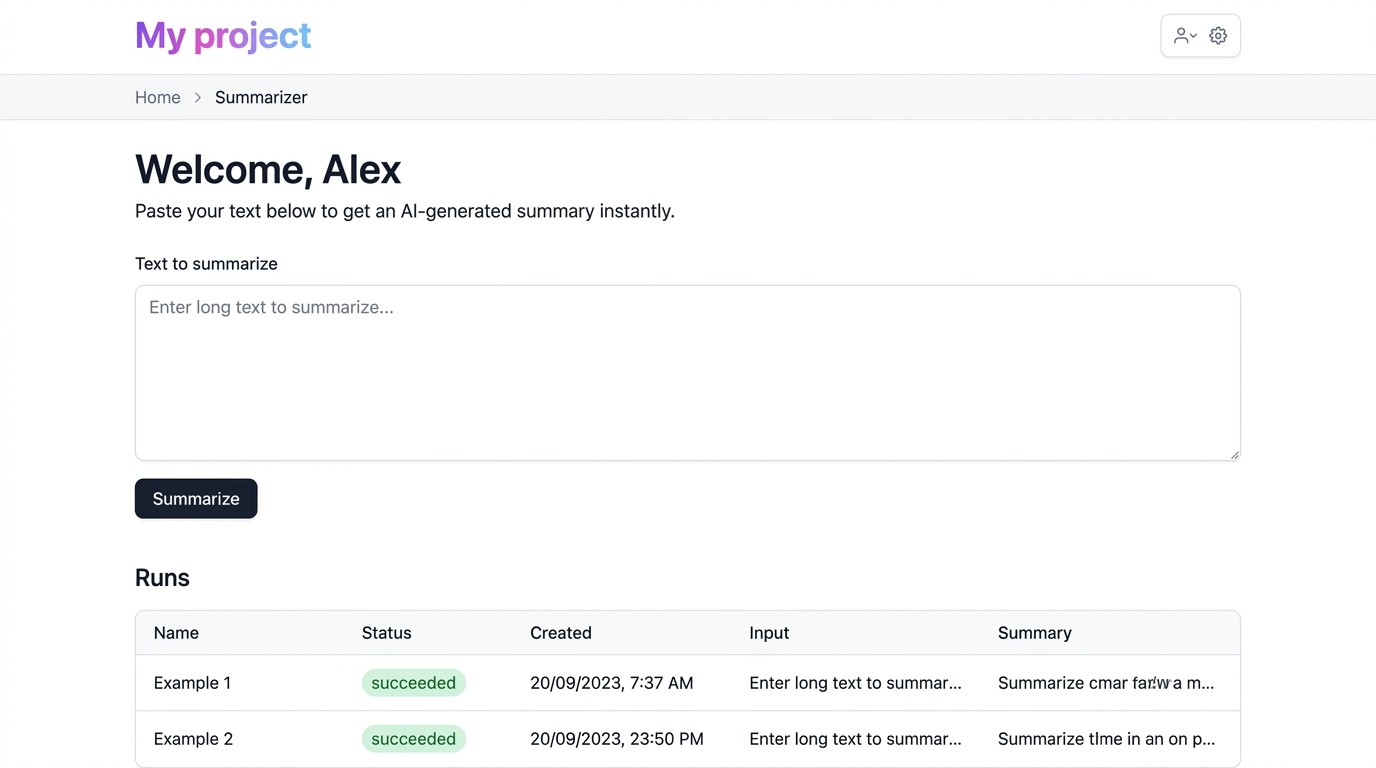
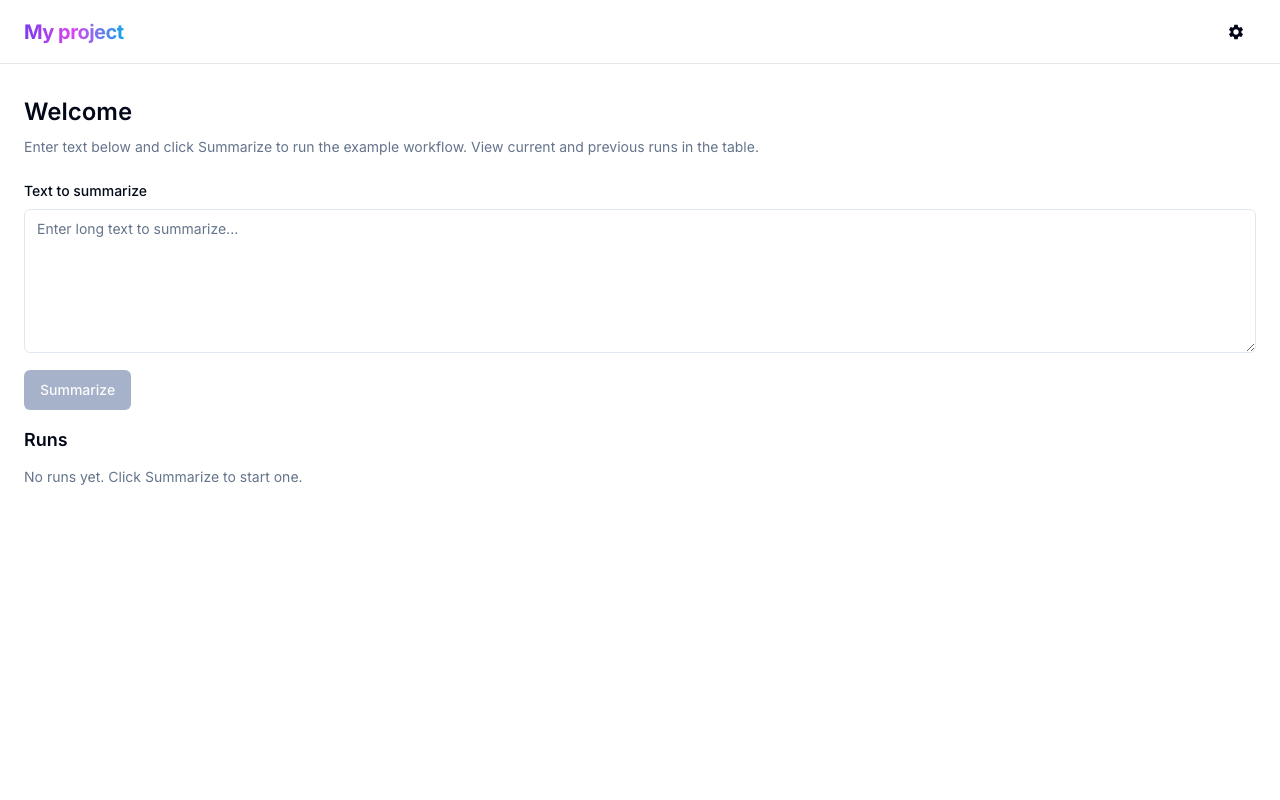
Update Docker and Justfile configurations for development and production environments; add Playwright tests for README screenshots

diff --git a/frontend/tests/readme-screenshots.spec.ts b/frontend/tests/readme-screenshots.spec.ts
@@ -1,0 +1,80 @@
+import { mkdir } from "node:fs/promises"
+import path from "node:path"
+import { fileURLToPath } from "node:url"
+import { expect, test } from "@playwright/test"
+
+const __dirname = path.dirname(fileURLToPath(import.meta.url))
+const screenshotDir = path.resolve(__dirname, "../../docs/screenshots")
+
+function apiBaseUrl(): string {
+	const fromEnv = process.env.README_API_URL?.trim()
+	if (fromEnv) return fromEnv.replace(/\/$/, "")
+	return "http://127.0.0.1:8000"
+}
+
+test.describe.configure({ mode: "serial" })
+
+test("README screenshots", async ({ page, context }) => {
+	await mkdir(screenshotDir, { recursive: true })
+
+	const email =
+		process.env.README_SCREENSHOT_EMAIL?.trim() || "admin@localhost"
+	const password = process.env.README_SCREENSHOT_PASSWORD?.trim() || "admin"
+
+	await context.clearCookies()
+	await page.goto("/login")
+	await page.evaluate(() => {
+		localStorage.clear()
+		sessionStorage.clear()
+	})
+	await page.goto("/login")
+	await expect(page.getByPlaceholder("Email")).toBeVisible()
+	await page.screenshot({
+		path: path.join(screenshotDir, "login.png"),
+		fullPage: true,
+	})
+
+	const tokenRes = await page.request.post(
+		`${apiBaseUrl()}/login/access-token`,
+		{
+			headers: {
+				"Content-Type": "application/x-www-form-urlencoded",
+			},
+			data: new URLSearchParams({
+				username: email,
+				password,
+			}).toString(),
+		},
+	)
+	if (!tokenRes.ok()) {
+		const body = await tokenRes.text()
+		throw new Error(
+			`Login API failed (HTTP ${tokenRes.status()}): ${body}. Start the dev stack (e.g. just up-dev) or set README_API_URL to your API base.`,
+		)
+	}
+	const tokenJson = (await tokenRes.json()) as {
+		access_token: string
+		refresh_token: string
+	}
+
+	await page.evaluate(
+		({ access_token, refresh_token }) => {
+			localStorage.setItem("access_token", access_token)
+			localStorage.setItem("refresh_token", refresh_token)
+		},
+		{
+			access_token: tokenJson.access_token,
+			refresh_token: tokenJson.refresh_token,
+		},
+	)
+
+	await page.goto("/")
+	await expect(page.getByRole("heading", { name: /^Welcome/ })).toBeVisible({
+		timeout: 30_000,
+	})
+	await expect(page.getByRole("button", { name: "Summarize" })).toBeVisible()
+	await page.screenshot({
+		path: path.join(screenshotDir, "home.png"),
+		fullPage: true,
+	})
+})

diff --git a/frontend/playwright.readme.config.ts b/frontend/playwright.readme.config.ts
@@ -1,0 +1,34 @@
+import { defineConfig, devices } from "@playwright/test"
+
+const readmeApiUrl =
+	process.env.README_API_URL?.trim() || "http://127.0.0.1:8000"
+const readmeBaseUrl =
+	process.env.README_BASE_URL?.trim() || "http://localhost:3000"
+
+/**
+ * README screenshots: starts Vite (see webServer) and opens README_BASE_URL.
+ * Set README_API_URL to a reachable FastAPI base (browser + token request), e.g.
+ * `http://127.0.0.1:8000` when the backend is published on the host loopback.
+ */
+export default defineConfig({
+	testDir: "./tests",
+	testMatch: "readme-screenshots.spec.ts",
+	fullyParallel: false,
+	workers: 1,
+	reporter: "list",
+	timeout: 120_000,
+	use: {
+		baseURL: readmeBaseUrl,
+		...devices["Desktop Chrome"],
+		viewport: { width: 1280, height: 800 },
+		trace: "off",
+	},
+	webServer: process.env.README_SKIP_VITE
+		? undefined
+		: {
+				command: `VITE_API_URL=${readmeApiUrl} npm run build && VITE_API_URL=${readmeApiUrl} npm run preview`,
+				url: readmeBaseUrl,
+				reuseExistingServer: !process.env.CI,
+				timeout: 180_000,
+		  },
+})
